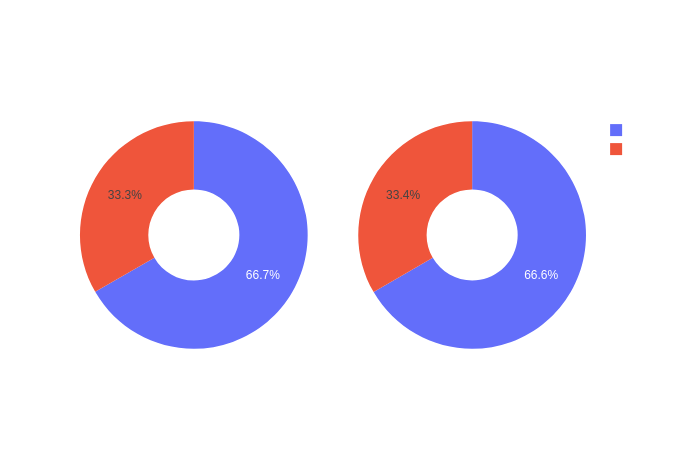
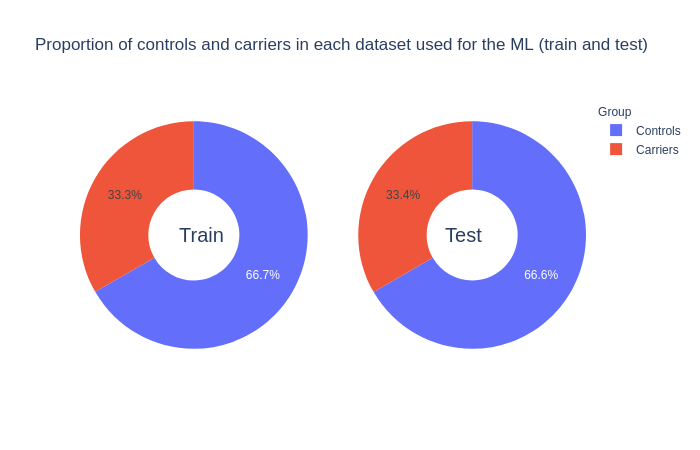
Update Readme Still testing figure link

diff --git a/README.md b/README.md
@@ -96,7 +96,7 @@ Another subgoal was to deal with imbalanced dataset which reflect the reality of
 Click on the following images to open interactive pie-charts showing the proportion of controls and carriers in the training and test sets used for the ML models. 
 
 <p align="center">
-<a href="Interactive_plots/piechart_traintest.html"><img src="https://elise-douard.github.io/EliseAD_BLUP_BlogPage/blog_content/piechart_traintest.html" width="700" height="450" title="Click to access to the interactive pie-chart" alt="trainingtestsets"></a>
+<a href="https://elise-douard.github.io/EliseAD_BLUP_BlogPage/blog_content/piechart_traintest.html"><img src="Slide_content/piechart_trainingtest.png" width="700" height="450" title="Click to access to the interactive pie-chart" alt="trainingtestsets"></a>
 </p>
 
 ## Tools 
